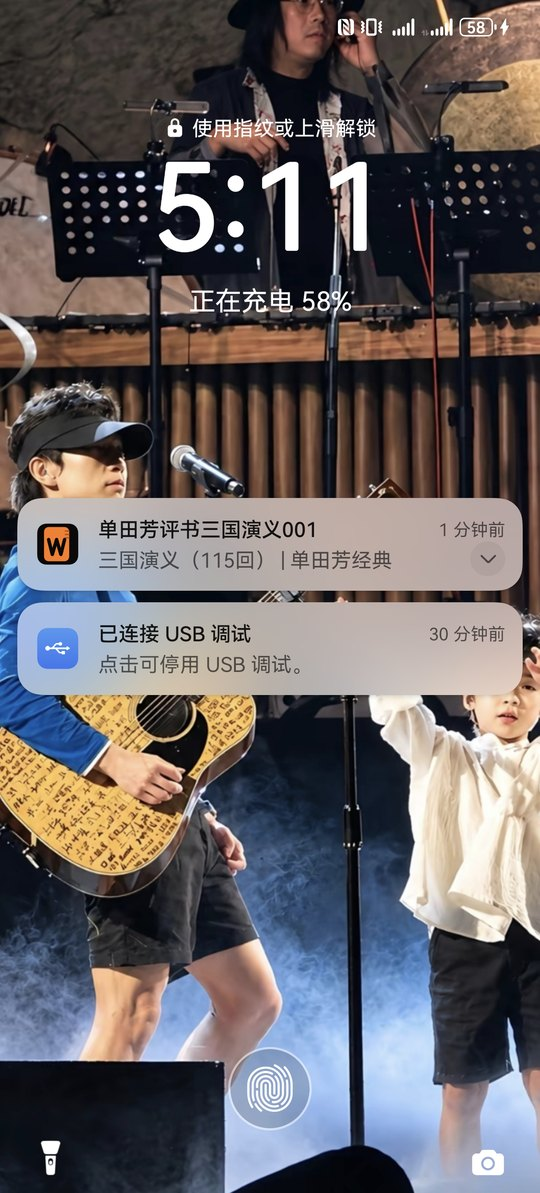
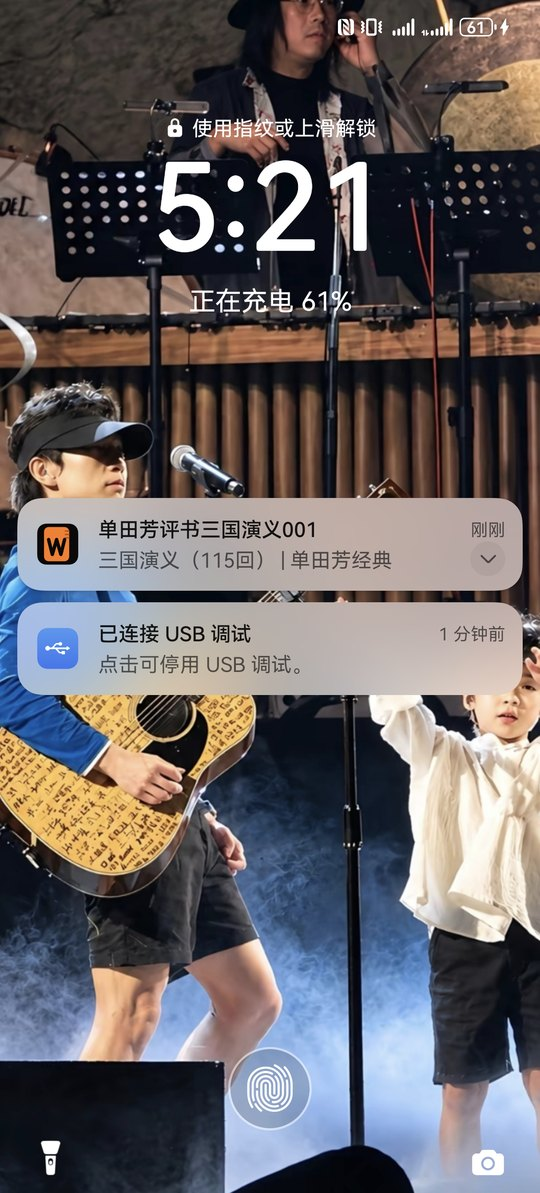
修复锁屏通知浅底浅字
播放通知不再叠自定义展开视图（自带深色底 + 浅色字，华为锁屏会把系统
卡片底铺进来、丢掉自定义背景，导致文字几乎看不清），交回系统
MediaStyle 自行配色，通知栏与锁屏统一为深底/浅底都能读。

顺便删掉不再使用的 notification_player.xml 与 buildExpanded()。
版本 1.3.3 / versionCode 7。

diff --git a/android/app/src/main/java/com/weige/tingshu/play/TingshuNotificationProvider.kt b/android/app/src/main/java/com/weige/tingshu/play/TingshuNotificationProvider.kt
@@ -107,48 +107,11 @@ class TingshuNotificationProvider(private val context: Context) : MediaNotificat
 
         builder.setStyle(MediaStyleNotificationHelper.MediaStyle(s).setShowActionsInCompactView(0, 1, 2))
 
-        // 再盖一层展开视图：MediaStyle 的展开态没有大封面
-        runCatching { builder.setCustomBigContentView(buildExpanded(s, f, title, text, mediaId, playing)) }
-
+        // 曾经在这里盖过一层自定义展开视图（自带深色底 + 浅色字），结果华为锁屏会把
+        // 系统卡片底铺进来、把自定义背景丢掉，浅字压在浅底上几乎看不清。
+        // 现在交回系统 MediaStyle：底色和文字颜色由系统按深浅主题自己配，
+        // 通知栏、锁屏、深色壁纸下都不会出现「浅底浅字」。
         return builder.build()
-    }
-
-    private fun buildExpanded(
-        session: MediaSession,
-        factory: MediaNotification.ActionFactory,
-        title: String,
-        subText: String,
-        mediaId: String?,
-        playing: Boolean,
-    ): android.widget.RemoteViews {
-        val rv = android.widget.RemoteViews(context.packageName, R.layout.notification_player)
-        rv.setTextViewText(R.id.np_title, title)
-        rv.setTextViewText(R.id.np_sub, subText)
-
-        val playIcon = if (playing) {
-            androidx.media3.session.R.drawable.media3_icon_pause
-        } else {
-            androidx.media3.session.R.drawable.media3_icon_play
-        }
-        rv.setImageViewResource(R.id.np_prev, androidx.media3.session.R.drawable.media3_icon_previous)
-        rv.setImageViewResource(R.id.np_play, playIcon)
-        rv.setImageViewResource(R.id.np_next, androidx.media3.session.R.drawable.media3_icon_next)
-
-        NowPlayingState.coverOf(mediaId)?.let { rv.setImageViewBitmap(R.id.np_cover, it) }
-
-        rv.setOnClickPendingIntent(
-            R.id.np_prev,
-            factory.createMediaActionPendingIntent(session, Player.COMMAND_SEEK_TO_PREVIOUS_MEDIA_ITEM.toLong()),
-        )
-        rv.setOnClickPendingIntent(
-            R.id.np_play,
-            factory.createMediaActionPendingIntent(session, Player.COMMAND_PLAY_PAUSE.toLong()),
-        )
-        rv.setOnClickPendingIntent(
-            R.id.np_next,
-            factory.createMediaActionPendingIntent(session, Player.COMMAND_SEEK_TO_NEXT_MEDIA_ITEM.toLong()),
-        )
-        return rv
     }
 
     private companion object {

diff --git a/CHANGELOG.md b/CHANGELOG.md
@@ -1,5 +1,11 @@
 # 更新记录
 
+## 1.3.3 — 2026-10-26
+
+- 修掉锁屏/通知栏里「浅底浅字」看不清的问题：播放通知不再盖自定义展开视图，交回系统 MediaStyle 配色
+  （华为锁屏会把系统卡片底铺进来、丢掉自定义背景，导致浅色文字压在浅底上）
+- 通知栏与锁屏现在统一为深色文字、可读；封面缩略图仍保留在右侧
+
 ## 1.3.2 — 2026-10-25
 
 - 封面按用途分档取图：列表 300、通知 640、播放页 960（接口原生只给 140/290 的缩略图，播放页会糊）
